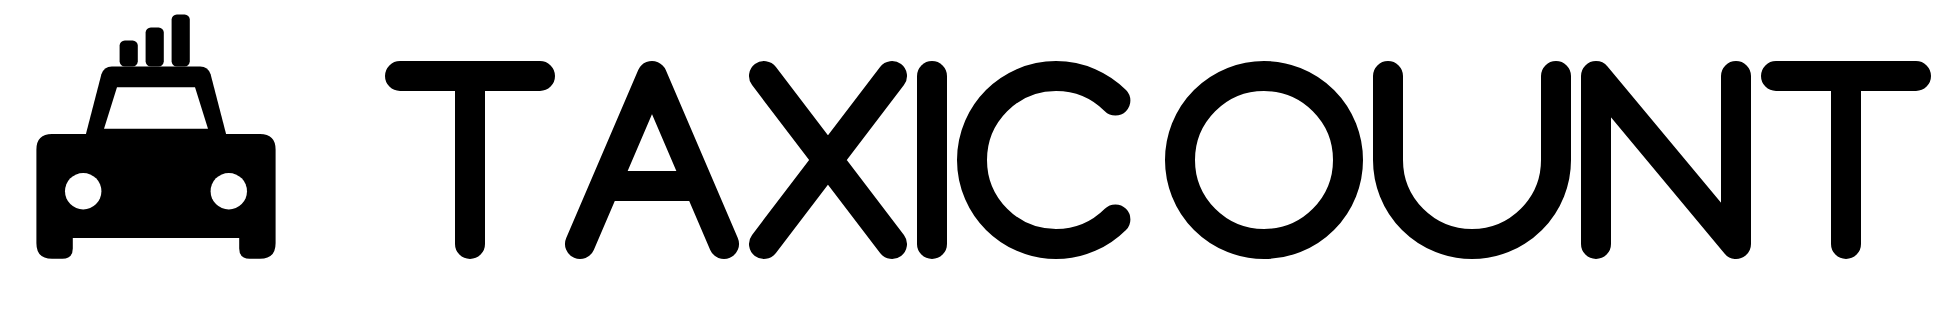
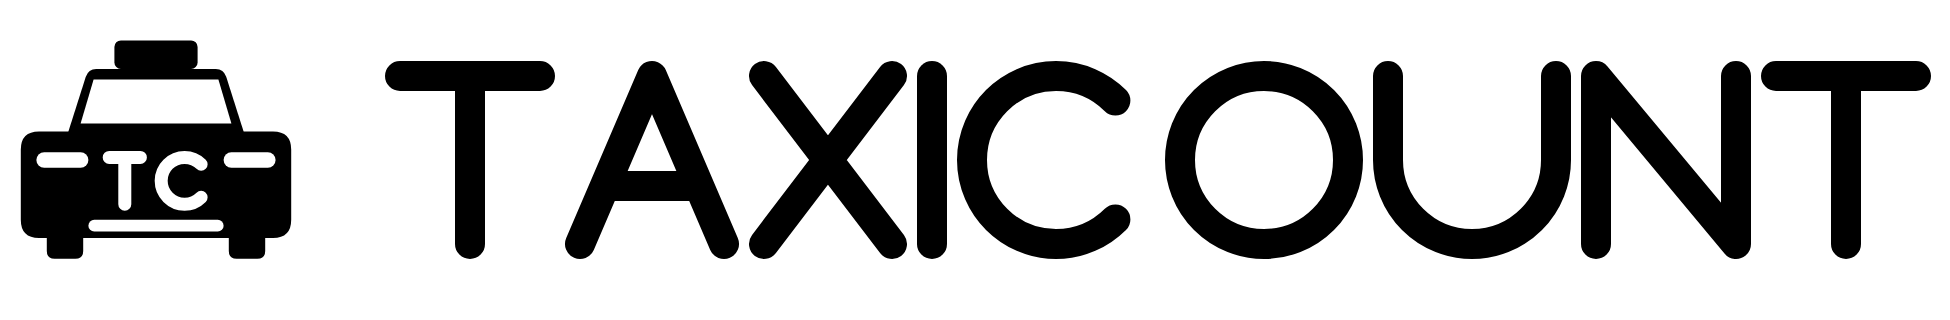
refactor(branding): carroceria SUV moderna + monograma TC en la parrilla
Iteracion de diseno pedida por el usuario:
- Carroceria rehecha en lenguaje de coche actual (SUV): techo mas alto y plano,
  cabina y cristal mayores, faros de ranura finos, toma de aire inferior.
  La version anterior leia como coche antiguo (y a ratos como tractor).
- Las lineas salen del techo y pasan a la parrilla como monograma TC:
  T en negro calido, C calada para que tome el color del fondo.
- En blanco y negro la T tambien va calada (sobre negro no se veria).

Changed region(s): [[0.0, 0.0625, 0.1538, 0.8125]]

diff --git a/brand/README.md b/brand/README.md
@@ -32,10 +32,20 @@ porque la representación oficial no debe depender del color del soporte.
 
 ## Concepto
 
-Un taxi visto de frente cuyo rótulo de techo son **tres barras ascendentes**: el gráfico
-de barras une "Taxi" y "Count" en un solo signo y es lo que aleja el dibujo del pictograma
-genérico de taxi. En el logotipo, "TAXI" va en negro cálido y "COUNT" en ámbar, para que
-la lectura en dos partes del nombre se mantenga aunque esté todo en mayúsculas.
+Un **SUV moderno visto de frente**, con módulo de taxi plano en el techo, faros de ranura
+finos, toma de aire inferior y cristal amplio — lenguaje de coche actual, no de taxi
+antiguo. En la parrilla central va el **monograma TC**: la T en negro cálido y la C calada,
+de modo que la C toma el color de lo que haya detrás (ámbar en el icono de aplicación, que
+es el color con el que "COUNT" aparece en el logotipo).
+
+El monograma es lo que hace la marca defendible: un taxi con parrilla es genérico, un taxi
+con las iniciales en la parrilla es propio, y además refuerza el elemento denominativo.
+
+En el logotipo, "TAXI" va en negro cálido y "COUNT" en ámbar, para que la lectura en dos
+partes del nombre se mantenga aunque esté todo en mayúsculas.
+
+En la versión en blanco y negro la T también va calada, porque sobre carrocería negra un
+trazo negro no se vería.
 
 ## Colores
 
@@ -43,8 +53,8 @@ la lectura en dos partes del nombre se mantenga aunque esté todo en mayúsculas
 |---|---|---|
 | Ámbar TaxiCount | `#FFC107` | Isotipo, icono de app |
 | Ámbar logotipo | `#FFB300` | "COUNT" en el logotipo (algo más profundo, para contraste sobre blanco) |
-| Negro cálido | `#1E1B16` | "TAXI" en el logotipo |
-| Crema | `#FEF7EC` | Contraformas dentro del icono de app |
+| Negro cálido | `#1E1B16` | "TAXI" en el logotipo, T del monograma |
+| Crema | `#FEF7EC` | Carrocería dentro del icono de app |
 
 ## Construcción tipográfica
 
